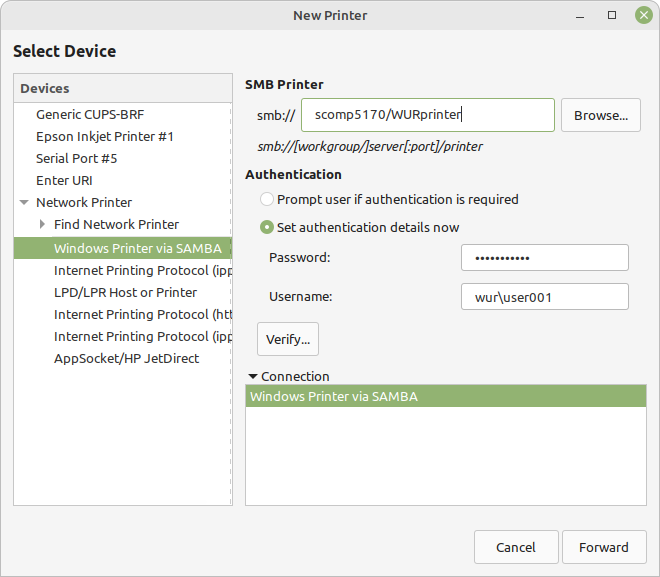
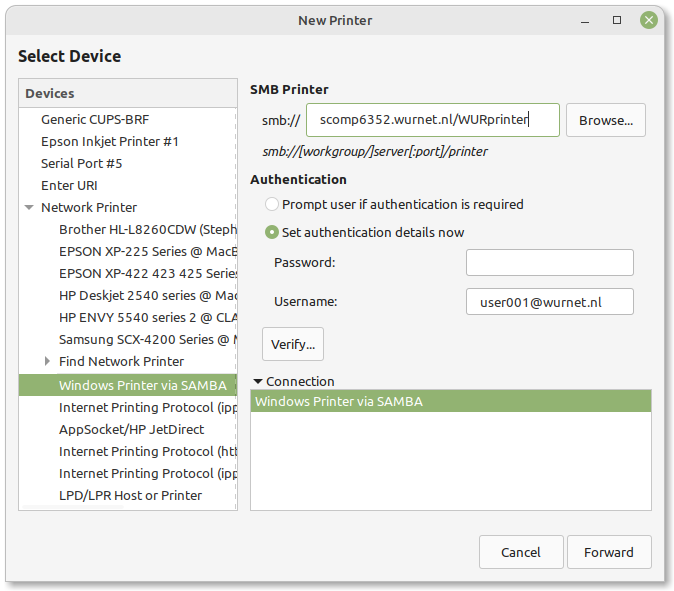
updated post about Linux printing at WUR

diff --git a/content/post/2022-06-11-printing-wur-linux/index.md b/content/post/2022-06-11-printing-wur-linux/index.md
@@ -156,13 +156,14 @@ To be able to print on facilities (multifunctionals) at WUR the desktop or lapto
 ## Download
 
 For convenience the PostScript Printer Description (PPD) files of the printers in use at Wageningen University & Research are provided. You can save the files into the Downloads folder of your Linux desk- or laptop by right-clicking the link and selecting the option 'Save link as...' (**<span style="color:red">IMPORTANT:</span> <u>DO NOT CHANGE THE FILE NAMES!</u>**):
-
+<!--
 * {{< staticref "files/linux/print/Ricoh-IM_C4500-PDF-Ricoh.ppd" "newtab" >}}{{< icon name="download" pack="fas" >}} Ricoh-IM_C4500-PDF-Ricoh.ppd{{< /staticref >}}
+-->
 * {{< staticref "files/linux/print/Ricoh-IM_C4500-Postscript-Ricoh.ppd" "newtab" >}}{{< icon name="download" pack="fas" >}} Ricoh-IM_C4500-Postscript-Ricoh.ppd{{< /staticref >}}
 
-**<span style="color:red">RECOMMENDATION:</span> Use the Postscript PPD file for the Ricoh IM C4500. The other one (PDF ppd file) is provided just in case you require it.**
+**<span style="color:red">RECOMMENDATION:</span> Use the Postscript PPD file for the Ricoh IM C4500. On internet you can also find the PDF ppd file, but so far it does not work within WUR.**<!--The other one (PDF ppd file) is provided just in case you require it.**-->
 
-The Ricoh IM C4500 is since February 2023 the default printer at WUR. <!-- This specific driver also works perfectly with the Ricoh MP C4503 printers, that are more commonly used in WUR buildings.-->
+Since February 2023 the Ricoh IM C4500 is the default printer at WUR. <!-- This specific driver also works perfectly with the Ricoh MP C4503 printers, that are more commonly used in WUR buildings.-->
 
 ## Printer Setup
 
@@ -174,12 +175,12 @@ The Ricoh IM C4500 is since February 2023 the default printer at WUR. <!-- This 
 
 {{< figure src="printing-linux/2-new-printer.png" caption="Configure a new printing device." numbered="true" id="add-new-printer" >}}
 
-3. In the left column named **Devices** select ‘Network Printer’ > ‘Windows Printer via SAMBA’. As shown in [Figure 2](#figure-add-new-printer) fill the field **SMB Printer** with the address `smb://scomp5170/WURprinter` (printer queue, which handles printjobs at WUR).
+3. In the left column named **Devices** select ‘Network Printer’ > ‘Windows Printer via SAMBA’. As shown in [Figure 2](#figure-add-new-printer) fill the field **SMB Printer** with the address `smb://scomp6352.wurnet.nl/WURprinter` (printer queue, which handles printjobs at WUR).
 
 4. Set the authentication details, as shown in [Figure 2](#figure-add-new-printer). Click the ‘Forward’ button to start the search for the printer driver as displayed below in [Figure 3](#figure-search-printer-driver)
 
 {{% callout warning %}}
-Username should start as displayed with `wur\` and replace `user001` with your personal WUR username. The Password provided should be the WUR Windows password for your WUR username. 
+Replace `user001` with your personal WUR username and make sure to add `@wurnet.nl` behind it. The Password provided should be the WUR Windows password for your WUR username. 
 {{% /callout %}}
 
 {{< figure src="printing-linux/3-searching-driver.png" caption="Searching for printer driver." numbered="true" id="search-printer-driver" >}}
@@ -240,9 +241,9 @@ The are two options:
     ```
     4. Modify the line:
     ```sh
-      DeviceURI smb://wur%5Cuser001:password@scomp5170/WURprinter
+      DeviceURI smb://user001%40wurnet.nl:password@scomp6352.wurnet.nl/WURprinter
     ```
-    5. In this line `wur%5C` represents `wur\`, where the `\` is encoded as hexadecimal ASCII character (see [ASCII table](https://www.asciitable.com/)). `user001` will be displaying your own personal WUR username. The part between `:` and `@` represents your password, in which special characters are encoded as hexadecimal ASCII characters. Modify the password part to match you new password.
+    5. In this line `%40wurnet.nl` represents `@wurnet.nl`, where the `@` is encoded as hexadecimal ASCII character (see [ASCII table](https://www.asciitable.com/)). `user001` will be displaying your own personal WUR username. The part between `:` and `@` represents your password, in which special characters are encoded as hexadecimal ASCII characters. Modify the password part to match you new password.
         + e.g. new password: qu!ck4L!9H+2 (very strong password), needs to be provided in `printers.conf` as qu%21ck4L%219H%2B2
     6. Save the modified `/etc/cups/printers.conf` file and exit the text editor
     7. Restart the CUPS daemon:
